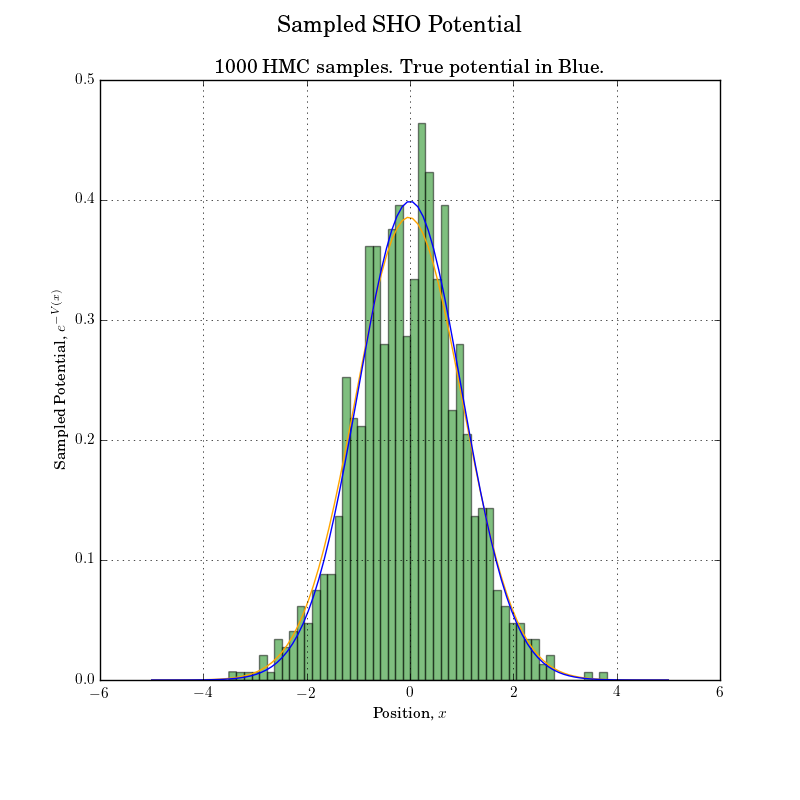
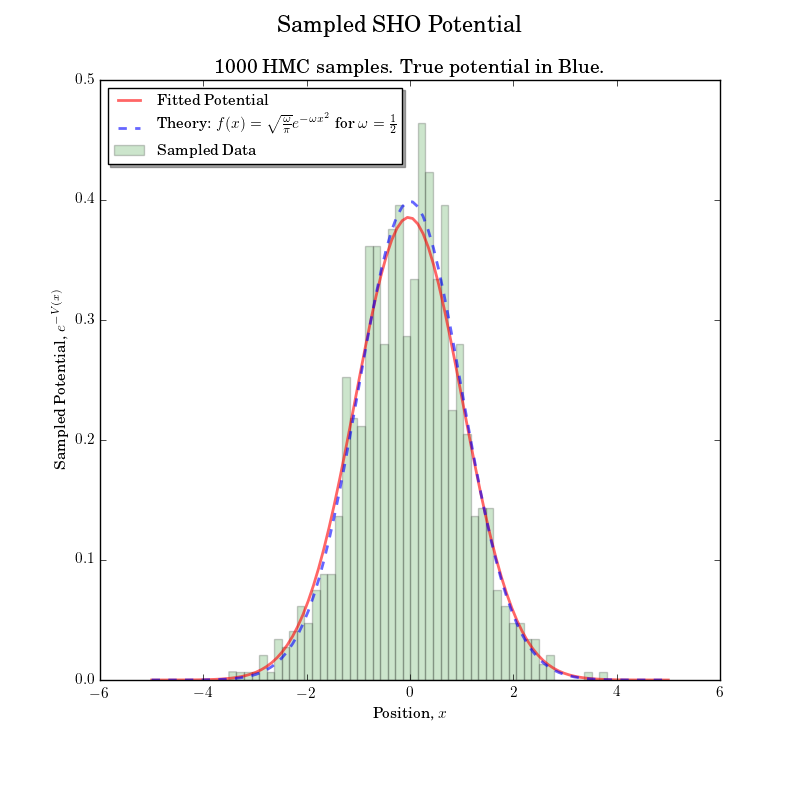
rename & plt tweaks

Changed region(s): [[0.125, 0.0938, 0.7188, 0.875], [0.7188, 0.8438, 0.7812, 0.875]]

diff --git a/results/hmc_sho_1d_pot.py b/results/hmc_sho_1d_pot.py
@@ -3,7 +3,7 @@ import numpy as np
 import matplotlib.pyplot as plt
 from plotter import Pretty_Plotter, PLOT_LOC
 
-from HMC_sho_1d import Model
+from hmc_sho_1d import Model
 from scipy.stats import norm
     
 def plot(samples, save='hmc_sho_1d_pot.png'):
@@ -36,14 +36,21 @@ def plot(samples, save='hmc_sho_1d_pot.png'):
     fitted = norm.pdf(x, loc=p[0], scale=p[1])
     actual = norm.pdf(x)
     
-    n, bins, patches = ax[0].hist(samples, 50, normed=1, # histogram
-        facecolor='green', alpha=0.5, label=r'Sampled Data')
+    theory = r'$f(x) = \sqrt{\frac{\omega}{\pi}}e^{-\omega x^2}$ for $\omega=\frac{1}{2}$'
     
+    n, bins, patches = ax[0].hist(samples, 50, normed=1, # histogram
+        facecolor='green', alpha=0.2, label=r'Sampled Data')
+        
     ax[0].plot(x, fitted, # marker='x', # best fit
-        linestyle='-', color='orange', label=r'Fitted Potential')
+        linestyle='-', color='red', linewidth=2., alpha=0.6,
+        label=r'Fitted Potential')
     
     ax[0].plot(x, actual, # marker='x',
-        linestyle='-', color='blue', label=r'True Potential')
+        linestyle='--', color='blue', linewidth=2., alpha=0.6,
+        label=r'Theory: {}'.format(theory))
+    
+    ax[0].legend(loc='upper left', shadow=True, fontsize = pp.axfont)
+    ax[0].grid(False)
     
     pp.save_or_show(save, PLOT_LOC)
     pass
@@ -54,7 +61,9 @@ if __name__ == '__main__':
     n_samples = 1000
     
     model = Model()
+    print 'Running Model'
     model.run(n_samples=n_samples, n_burn_in=n_burn_in)
+    print 'Finished Running Model'
     
     samples = np.asarray(model.samples).reshape(n_samples+1)
     

diff --git a/results/hmc_qho_1d_pot.py b/results/hmc_qho_1d_pot.py
@@ -3,7 +3,7 @@ import os
 import matplotlib.pyplot as plt
 from plotter import Pretty_Plotter, PLOT_LOC
 
-from HMC_qho_1d import Model
+from hmc_qho_1d import Model
 from scipy.stats import norm
 
 def plot(samples, save='hmc_qho_1d_pot.py'):
@@ -19,12 +19,12 @@ def plot(samples, save='hmc_qho_1d_pot.py'):
     ax.append(fig.add_subplot(111))
     
     name = "QHO"
-    fig.suptitle(r'Sampled {} Potential'.format(name), fontsize=16)
+    fig.suptitle(r'Sampled {} Ground State Potential'.format(name), fontsize=16)
     
     ax[0].set_title(
         r'{} HMC samples'.format(samples.shape[0]-1))
     
-    ax[0].set_ylabel(r'Sampled Potential, $e^{-V(x)}$')
+    ax[0].set_ylabel(r'Sampled Potential, $V(x)$')
     ax[0].set_xlabel(r"Position, $x$")
     
     n = 100 # size of linear space
@@ -38,7 +38,7 @@ def plot(samples, save='hmc_qho_1d_pot.py'):
     c = np.sqrt(w / np.pi) # this is the theory
     actual = np.exp(-x**2*1.1)*c
     
-    theory = r'$|\psi(x)|^2 = \sqrt{\frac{\omega}{\pi}}e^{-\omega x^2}$ for $\omega=\sqrt{\frac{5}{4}}$'
+    theory = r'$|\psi_0(x)|^2 = \sqrt{\frac{\omega}{\pi}}e^{-\omega x^2}$ for $\omega=\sqrt{\frac{5}{4}}$'
     
     n, bins, patches = ax[0].hist(samples.ravel(), 50, normed=1, # histogram
         facecolor='green', alpha=0.2, label=r'Sampled Data')

diff --git a/results/hmc_mvg_2d_pot.py b/results/hmc_mvg_2d_pot.py
@@ -3,7 +3,7 @@ import numpy as np
 import matplotlib.pyplot as plt
 from plotter import Pretty_Plotter, PLOT_LOC, magma, inferno, plasma, viridis
 
-from HMC_mvg_2d import Model
+from hmc_mvg_2d import Model
 
 def plot(burn_in, samples, bg_xyz, save='hmc_mvg_2d_pot.png'):
     """Note that samples and burn_in contain the initial conditions"""

diff --git a/results/hmc_qho_1d_lfpaths.py b/results/hmc_qho_1d_lfpaths.py
@@ -3,7 +3,7 @@ import os
 import matplotlib.pyplot as plt
 from plotter import Pretty_Plotter, PLOT_LOC
 
-from HMC_qho_1d import Model
+from hmc_qho_1d import Model
 
 def plot(burn_in, samples, save='hmc_qho_1d_lfpaths.png'):
     """Note that samples and burn_in contain the initial conditions"""

diff --git a/results/hmc_sho_1d_path.py b/results/hmc_sho_1d_path.py
@@ -3,7 +3,7 @@ import os
 import matplotlib.pyplot as plt
 from plotter import Pretty_Plotter, PLOT_LOC
 
-from HMC_sho_1d import Model
+from hmc_sho_1d import Model
 
 def plot(burn_in, samples, save='hmc_sho_1d_path.png'):
     """Note that samples and burn_in contain the initial conditions"""
